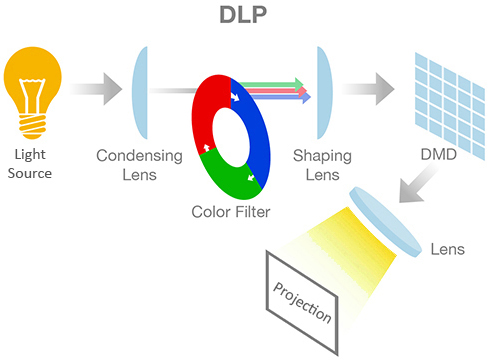
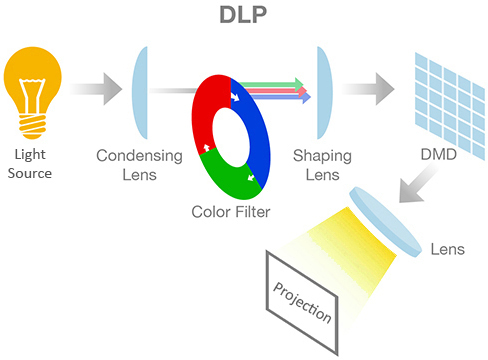
Improved camera modeling section.

diff --git a/tex/sections/implementation.tex b/tex/sections/implementation.tex
@@ -9,44 +9,22 @@ Over the years, several projection technologies were developed according to the 
 
 For video projection mapping purposes, reflective projectors are better suited than the remaining technologies given their ability to create images with smaller gaps between the projected pixels (smoother images) and they also have higher contrast, better color accuracy / uniformity, much fewer dead pixels and the image quality does not degrade over time. The main stages of the image creation in a \gls{dlp} projector are show in \cref{fig:dlp-projector-diagram-dmd}. The first phase is the generation of light from either a lamp or a \gls{led} / laser array, which is later on condensed on a lens in order to pass through a moving color wheel to become one of the 3 primary additive colors (red, green, blue). The colored light then passes through a shaping lens and hits a \gls{dmd} which has an electronic controllable mirror for each projection pixel that either reflects the light into the projection lens or into a heat sink. Color shading is achieved by controlling how long and how often the micro mirrors in the \gls{dmd} are reflecting each light color into the lens or into the heat sink.
 
-The mathematical modeling of a \gls{dlp} projector can be seen as an inverse pinhole camera due to the grid disposition of the mirrors in the \gls{dmd} and the very low distortion that modern \gls{dlp} projectors have. As such, rendering of 3D virtual environments can be performed efficiently using the \gls{opengl} projection matrix\footnote{\url{http://ksimek.github.io/2013/06/03/calibrated\_cameras\_in\_opengl}} (presented in \cref{eq:projection-matrix}).
+The mathematical modeling of a \gls{dlp} projector can be seen as an inverse pinhole camera (diagram shown in \cref{fig:camera-intrinsics-2}) due to the grid disposition of the mirrors in the \gls{dmd} and the very low distortion that modern \gls{dlp} projectors have. As such, rendering of 3D virtual environments can be performed efficiently using an extended version of the \gls{opengl} projection matrix\footnote{\url{http://ksimek.github.io/2013/06/03/calibrated\_cameras\_in\_opengl}} (presented in \cref{eq:projection-matrix}).
 
-It incorporates a matrix for perspective projection (\cref{eq:perspective-matrix}) that models the camera intrinsic parameters \cite{Hartley2003} (in pixel units), such as
-the focal lengths (Fx, Fy), principal point (Cx, Cy) and axis skew (S).
-
-Moreover, it includes a matrix for mapping a truncated pyramid frustum into a \gls{ndc} (shown in \cref{fig:ndc} and \cref{eq:ndc-matrix}) that has the XYZ values in the range [-1,1]. This mapping uses the image width and height (in pixel units) along with a near and far plane (in world units).
-
-is performed to
-simplify clipping operations -> 6 thresholds
-(only the geometry within the \gls{ndc} cube will be used for generating the final image)
-resolution and fov independent
-
-in OpenGL the image plane is located on the near clipping plane 
-
-For simplifying the projection of 3D points into the near plane using the properties of similar triangles (shown in TODO), the Z coordinate needs to be inverted in order to be positive (because in \gls{opengl} the camera is looking along the Z- axis, as seen in \cref{fig:ndc}).
-
-the sign of the third column of \cref{eq:perspective-matrix} needed to be inverted for converting the right-hand coordinate system of the \gls{opengl} camera space to the left-hand coordinate system of the \gls{opengl} \gls{ndc} space.
-
-The \cref{eq:ndc-matrix} assumes that the image coordinates origin has the origin on the top left corner, with the X+ axis going from left to right and the Y+ axis moving from top to bottom.
-
-%the fact that the \gls{opengl} world space coordinates uses a right-hand coordinate system while the \gls{opengl} \gls{ndc} space uses a left-hand coordinate system
-%\gls{opengl} camera looks down along the negative Z axis (as seen in \cref{fig:ndc}), while in most computer vision libraries used to compute the camera intrinsic parameters, such as OpenCV calib3d module in which the camera looks along the positive Z axis (diagram in \cref{fig:camera-intrinsics}).
-
-The correction of lens distortion for \gls{dlp} projectors, even thought being relatively small, can be done in a post-processing stage after 3D rendering, and typically uses 3 coefficients for removing radial distortions and 2 coefficients for accounting for the tangential distortions.
-
+The perspective projection of vertex data is one of the pivotal stages in any rendering engine and is responsible from converting 3D geometry from the camera space into the clipping space (as depicted in \cref{fig:opengl-mvp,fig:gl-projection-matrix}). This matrix is usually created using the $glOrtho$ function (matrix shown in \cref{eq:glOrtho}) for orthographic projection or the $glFrustum$ (matrix presented in \cref{eq:glFrustum}) for perspective projection. Looking at both matrices, we can see that the $glFrustum$ can be decomposed to include the $glFrustum$ matrix and a $Q$ matrix (shown in \cref{eq:Q}) that corresponds to the intrinsic parameters of a pinhole camera with the same focal length for the X and Y axis, the principal point at the center of the image and no axis skew. The main difference between the $Q$ matrix and the traditional $K$ matrix \cite{Hartley2003} (shown in \cref{eq:k}) is the bottom row of $Q$, in which the $w$ component of the homogeneous matrix was set to the -Z coordinate. This is a matrix optimization associated with the perspective z-divide that is required to convert 4D homogeneous coordinates to 3D Cartesian coordinates. It has a negative sign because by default the \gls{opengl} camera is setup to look along the -Z axis (as can be seen in \cref{fig:gl-projection-matrix}), and to simplify and optimize the calculations using the similar triangles properties (displayed in \cref{fig:similar-triangles}), the Z coordinate needs to be negated for having a positive value. Looking at \cref{eq:k2}, it can be seen that $K$ can be easily adapted to take this implementation detail into consideration, which allows to extend the $Q$ matrix with the intrinsics parameters estimated by the OpenCV $calib3d$ module. Namely, $Q$ can be extended (as shown in \cref{eq:q2}) to support pinhole cameras with different focal lengths for the X and Y axis ($Fx$ and $Fy$), have an arbitrary axis skew ($S$) and non-centered principal point ($Cx$ and $Cy$). Moreover, the $glOrtho$ matrix can be simplified for this particular use case (as seen in \cref{eq:glOrtho2}), in order to optimize the creation of the extended \gls{opengl} perspective projection matrix that takes into consideration the full camera intrinsics shown in \cref{eq:k}. This extension to the default \gls{opengl} projection matrix is of critical importance for being able to model video projectors as \gls{opengl} cameras, because unlike normal cameras that have the principal point close the image center, video projectors have the principal point at the bottom of the image. As such, \gls{sar} systems must take great care when generating the image that will be projected, otherwise the overlap error between the physical and virtual objects will be too much for making the system usable. The correction of lens distortion typically uses 3 coefficients for removing radial distortions and 2 coefficients for accounting for the tangential distortions. Even thought being relatively small in \gls{dlp} projectors, they can be removed in a post-processing stage after 3D rendering or using a shader in the new \gls{opengl} \gls{api}.
 
 \begin{figure}[!ht]
 	\centering
-	\includegraphics[height=.17\textheight]{dlp-projector-diagram-dmd}
+	\includegraphics[height=.13\textheight]{dlp-projector-diagram-dmd}
 	\caption[Single chip \glsentrytext{dlp} diagram]{Single chip \glsentrytext{dlp} diagram\protect\footnotemark}
 	\label{fig:dlp-projector-diagram-dmd}
 \end{figure}
 
 \begin{figure}[!ht]
 	\centering
-	\includegraphics[height=.22\textheight]{camera-intrinsics-2}
+	\includegraphics[height=.185\textheight]{camera-intrinsics-2}
 	\caption[Pinhole camera model used in OpenCV calib3d module]{Pinhole camera model used in OpenCV calib3d module\protect\footnotemark}
-	\label{fig:camera-intrinsics}
+	\label{fig:camera-intrinsics-2}
 \end{figure}
 
 \begin{figure}[!ht]
@@ -58,14 +36,14 @@ The correction of lens distortion for \gls{dlp} projectors, even thought being r
 
 \begin{figure}[!ht]
 	\centering
-	\includegraphics[height=.15\textheight]{gl-projection-matrix}
-	\caption[{\glsentrytext{opengl} perspective frustum in camera space (left) with the associated \glsentrytext{ndc} cube in clipping space}]{{\glsentrytext{opengl} perspective frustum in camera space (left) with the associated \glsentrytext{ndc} cube in clipping space}\protect\footnotemark}
-	\label{fig:ndc}
+	\includegraphics[height=.12\textheight]{gl-projection-matrix}
+	\caption[{\glsentrytext{opengl} perspective frustum (left) with the associated \glsentrytext{ndc} cube}]{{\glsentrytext{opengl} perspective frustum (left) with the associated \glsentrytext{ndc} cube}\protect\footnotemark}
+	\label{fig:gl-projection-matrix}
 \end{figure}
 
 \begin{figure}[!ht]
 	\centering
-	\includegraphics[width=.99\textwidth]{similar-triangles}
+	\includegraphics[width=.7\textwidth]{similar-triangles}
 	\caption[Similar triangles properties diagram]{Similar triangles properties diagram\protect\footnotemark}
 	\label{fig:similar-triangles}
 \end{figure}
@@ -141,7 +119,7 @@ The correction of lens distortion for \gls{dlp} projectors, even thought being r
 		\end{bmatrix}
 	\end{equation}
 
-	\begin{equation}\label{eq:perspective-matrix}
+	\begin{equation}\label{eq:q2}
 		Q'{=}
 		\begin{bmatrix}
 			Fx & S & -Cx & 0 \\[\smallskipamount]
@@ -151,7 +129,7 @@ The correction of lens distortion for \gls{dlp} projectors, even thought being r
 		\end{bmatrix}
 	\end{equation}
 
-	\begin{equation}\label{eq:ndc-matrix}
+	\begin{equation}\label{eq:glOrtho2}
 		glOrtho'{=}
 		\begin{bmatrix}
 			\vfrac{2}{IWidth} & 0 & 0 & -1 \\[\smallskipamount]
@@ -199,11 +177,11 @@ After having the intrinsic parameters of the camera and projector along with the
 For achieving accurate projection mapping, the Gazebo simulator\footnote{\url{http://gazebosim.org}} camera implementation was improved to allow the setting of a custom projection matrix in order to perform 3D rendering with a camera model that takes into account the projector intrinsic parameters. Moreover, it was added the possibility to dynamically change image, video and text during runtime for allowing the display of the relevant information for each assembly step.
 For efficient 3D scene rendering, the Gazebo simulator relies on the cross platform open source Ogre3D graphics engine\footnote{\url{http://www.ogre3d.org}}, that in turn uses the \gls{opengl} \gls{gpu} \gls{api} to take advantage of the massively parallel graphics cards currently available to generate raster images for the \gls{dlp} projector (example of a rendered scene for the last assembly step in \cref{fig:scene-rendering}).
 
-For user interface, the Gazebo simulator has a Qt\footnote{\url{https://www.qt.io/}} \gls{gui} that allows visual inspection of the scene while also giving the option to add new objects or move and rotate existing models. Moreover, for lightweight rendering, it can also start in server mode without a \gls{gui}.
+For user interface, the Gazebo simulator has a Qt\footnote{\url{https://www.qt.io}} \gls{gui} that allows visual inspection of the scene while also giving the option to add new objects or move and rotate existing models. Moreover, for lightweight rendering, it can also start in server mode without a \gls{gui}.
 
 \begin{figure}[ht]
 	\centering
-	\includegraphics[width=0.9\linewidth]{scene-rendering}
+	\includegraphics[width=0.99\linewidth]{scene-rendering}
 	\caption{3D scene rendering using the Gazebo simulator}
 	\label{fig:scene-rendering}
 \end{figure}
@@ -262,22 +240,11 @@ The last step of the assembly process includes a visual inspection stage perform
 
 \begin{figure}[!ht]
 	\centering
-	\includegraphics[height=.122\textheight]{object-reconstruction-front}
-	\includegraphics[height=.122\textheight]{object-reconstruction-back}
+	\includegraphics[height=.142\textheight]{object-reconstruction-front}
+	\includegraphics[height=.142\textheight]{object-reconstruction-back}
 	\caption{3D model of the starter motor reconstructed using the David Laser structured light 3D scanner}
 	\label{fig:object-reconstruction}
 \end{figure}
-
-%\begin{figure}[H]
-%	\begin{floatrow}[2]
-%		\ffigbox[\FBwidth]
-%		{\includegraphics[height=.082\textheight]{mitsubishi-m000t20873-front}\includegraphics[height=.082\textheight]{mitsubishi-m000t20873-back}}
-%		{\caption{Mitsubishi M000T20873 starter motor}\label{fig:starter-motor}}
-%		\ffigbox[\FBwidth]
-%		{\includegraphics[height=.082\textheight]{object-reconstruction-front}\includegraphics[height=.082\textheight]{object-reconstruction-back}}
-%		{\caption{3D model of the starter motor reconstructed using a structured light scanner}\label{fig:object-reconstruction}}
-%	\end{floatrow}
-%\end{figure}
 
 
 

diff --git a/tex/sections/training.tex b/tex/sections/training.tex
@@ -84,10 +84,10 @@ For helping the operator during the final inspection phase, the proposed \gls{sa
 \begin{figure}[H]
 	\begin{floatrow}[2]
 		\ffigbox[\FBwidth]
-		{\includegraphics[height=.115\textheight]{projection-mapping-2}}
+		{\includegraphics[height=.117\textheight]{projection-mapping-2}}
 		{\caption{Detailed view of the validation projection for the inspection phase}\label{fig:projection-mapping-2}}
 		\ffigbox[\FBwidth]
-		{\includegraphics[height=.115\textheight]{projection-mapping-3}}
+		{\includegraphics[height=.117\textheight]{projection-mapping-3}}
 		{\caption{Projection of the outline of the reconstructed 3D model after 6 DoF pose estimation}\label{fig:projection-mapping-3}}
 	\end{floatrow}
 \end{figure}

diff --git a/tex/preamble.tex b/tex/preamble.tex
@@ -44,5 +44,6 @@
 
 \renewcommand{\footnotesize}{\scriptsize}
 \newcommand{\vfrac}[2]{\frac{#1 \strut}{\strut #2}}
-%\setlength{\belowdisplayskip}{5pt} \setlength{\belowdisplayshortskip}{5pt}
-%\setlength{\abovedisplayskip}{5pt} \setlength{\abovedisplayshortskip}{5pt}
+\setlength{\textfloatsep}{5pt}
+\setlength{\belowdisplayskip}{2.5pt} \setlength{\belowdisplayshortskip}{2.5pt}
+\setlength{\abovedisplayskip}{2.5pt} \setlength{\abovedisplayshortskip}{2.5pt}
